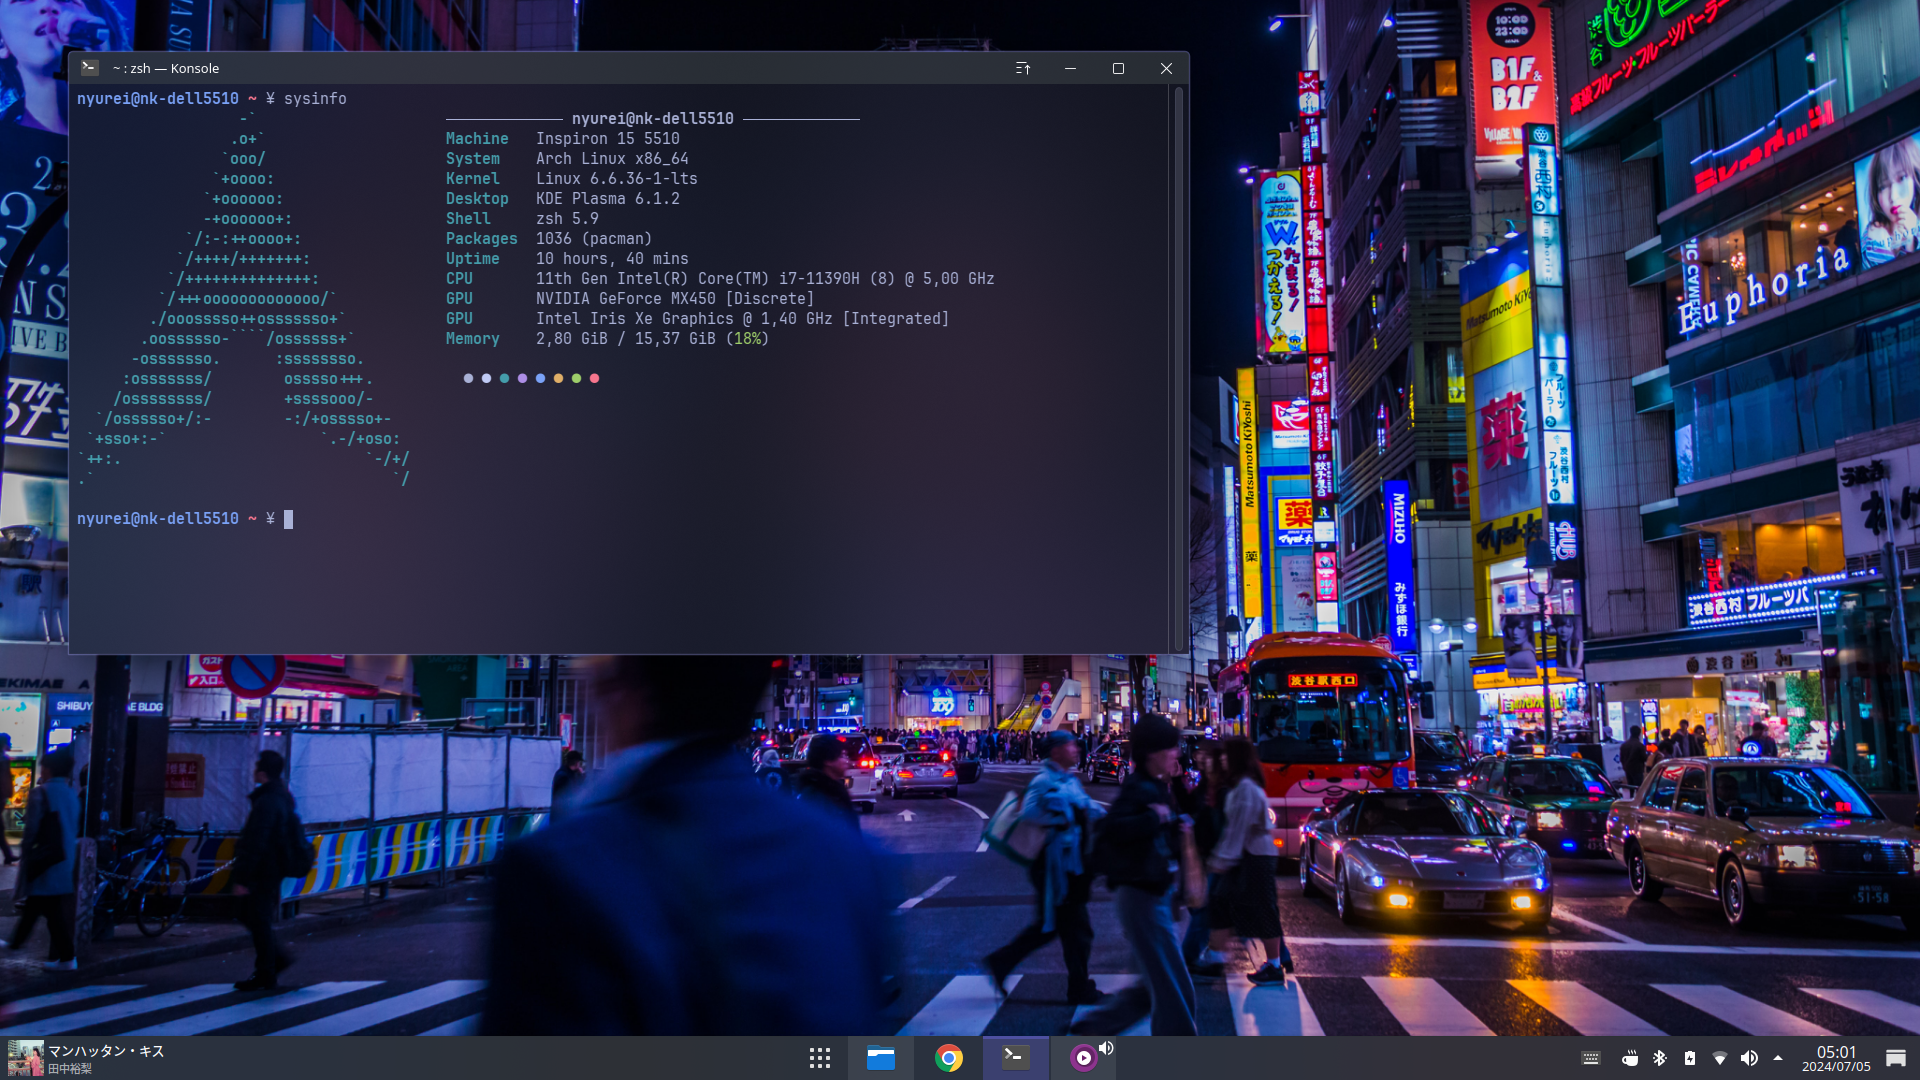
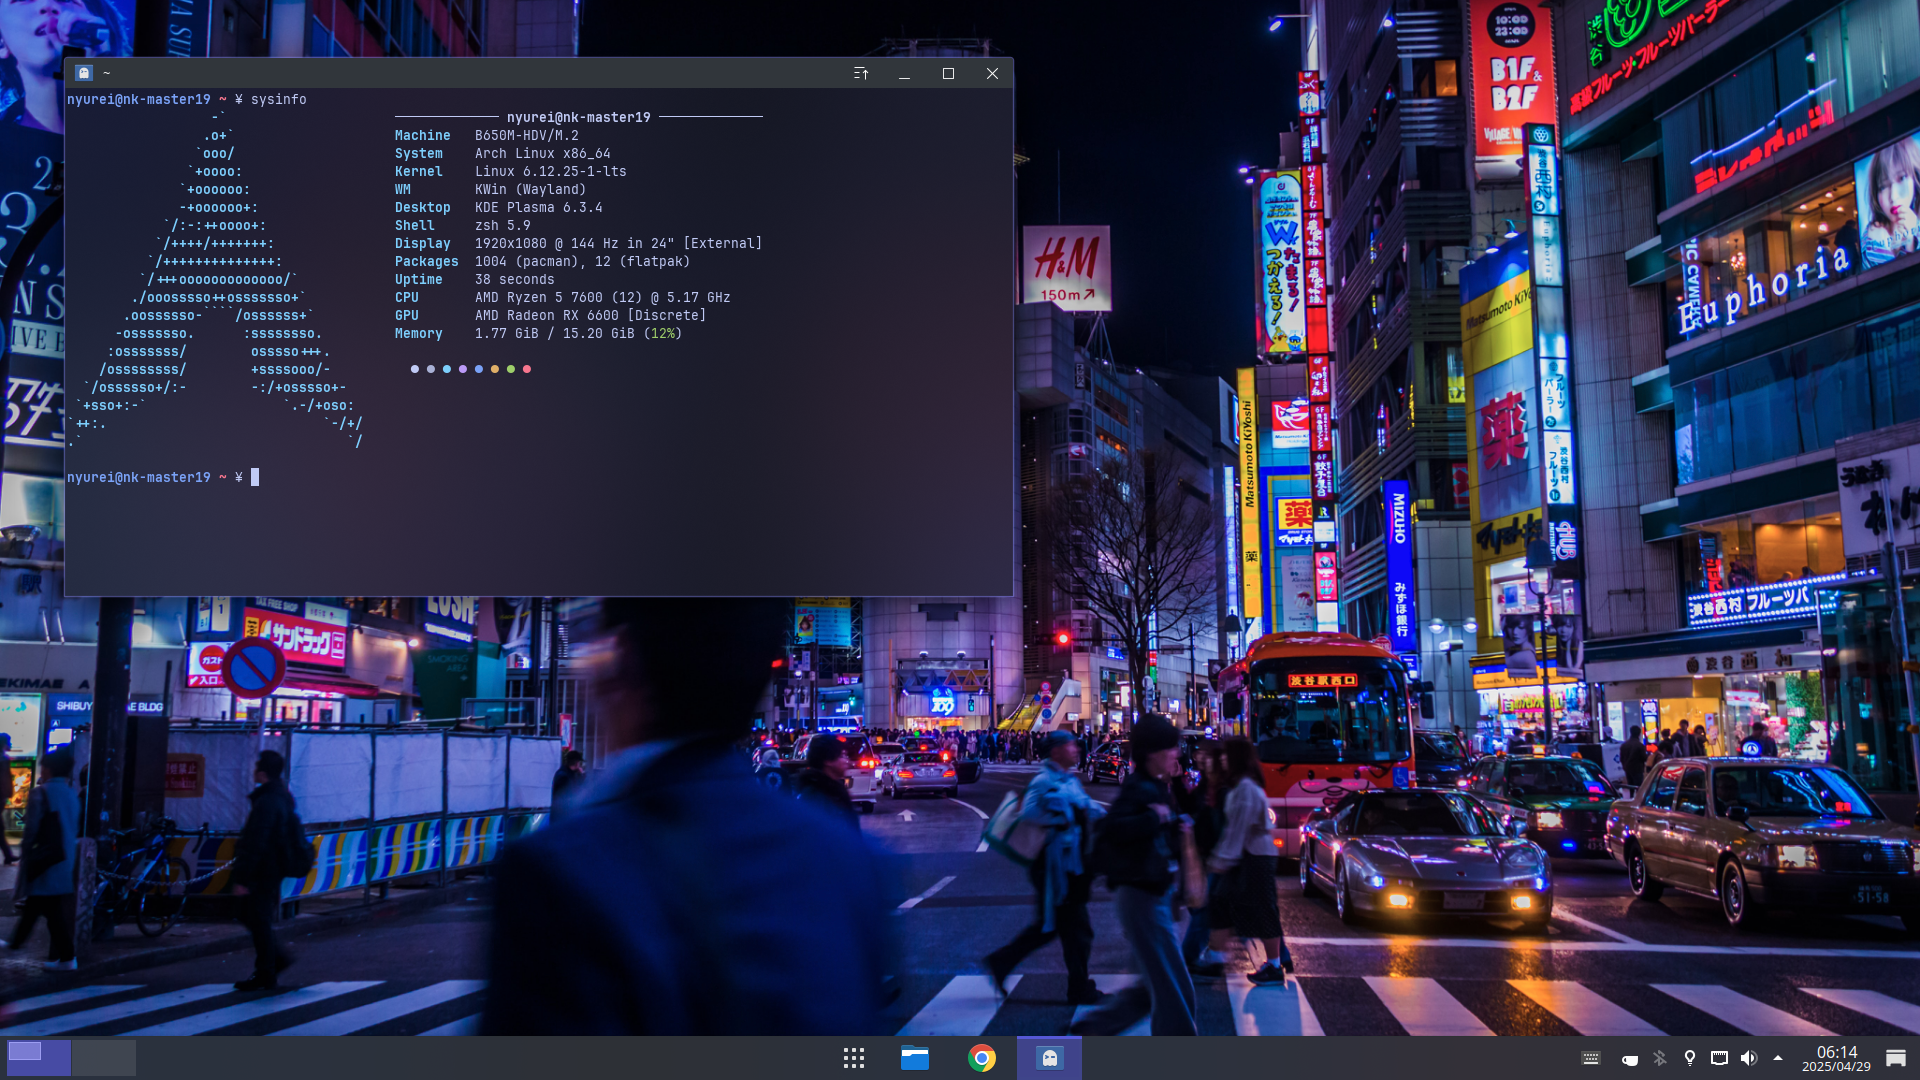
Add ghostty config and update screenshots

diff --git a/README.md b/README.md
@@ -8,6 +8,7 @@ My configuration files and scripts for Windows and Linux.
 - fastfetch
 - fontconfig
 - git
+- ghostty
 - mpv
 - nvim
 - pwsh (PowerShell 7+)
@@ -25,11 +26,11 @@ $ ./install.sh
 
 #### Windows
 
-This script only suports PowerShell version 7 or above.
-
 ```
 > ./install.ps1
 ```
+
+*This script only suports PowerShell version 7 or above.
 
 If you want to disable the configuration of a specific target, simply comment out the function call at the end of the install script.
 
